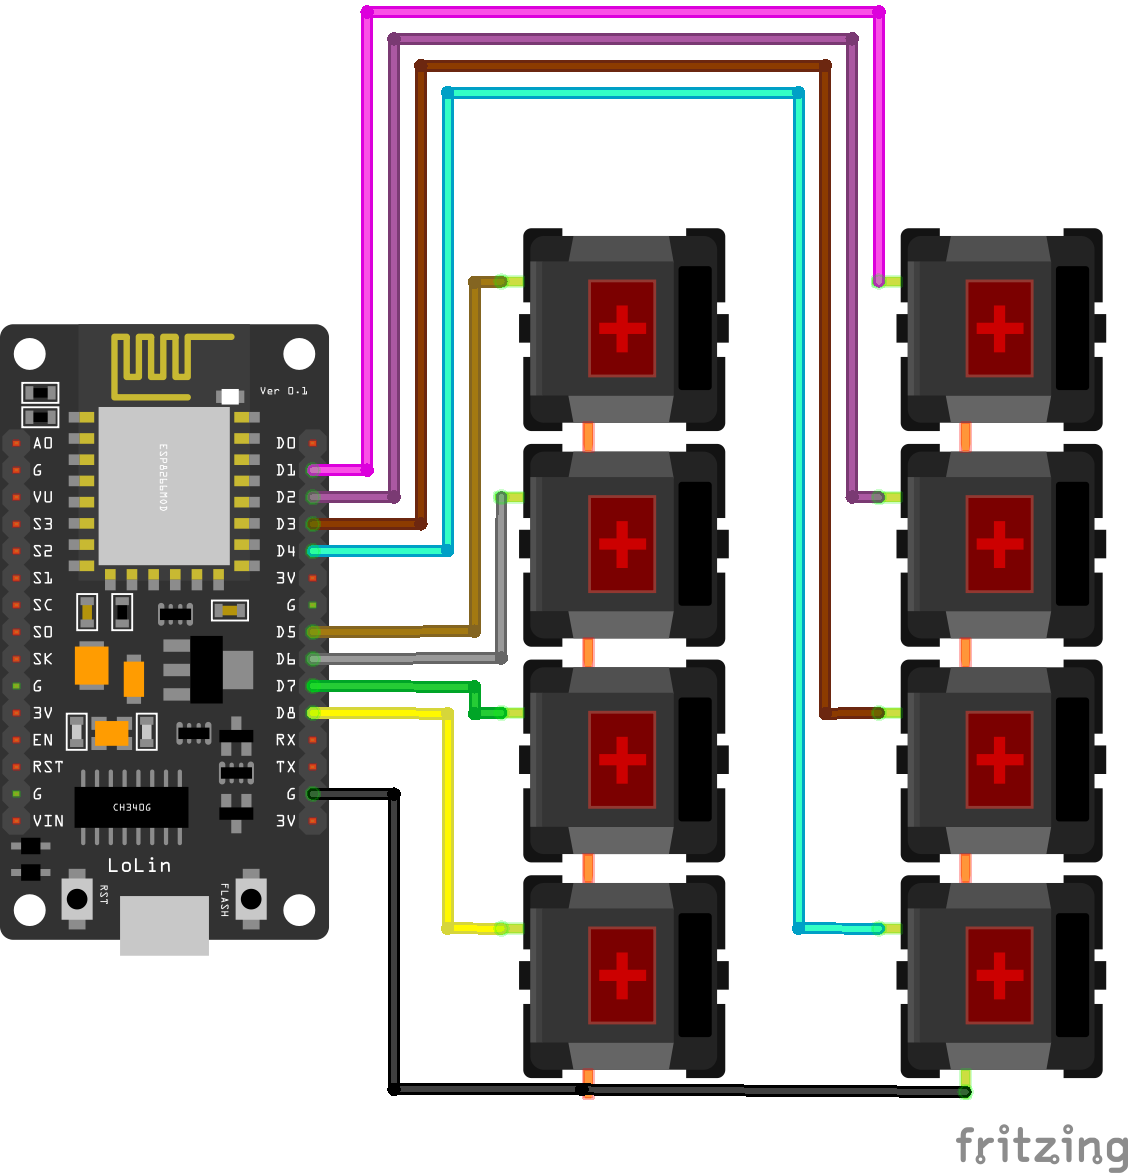
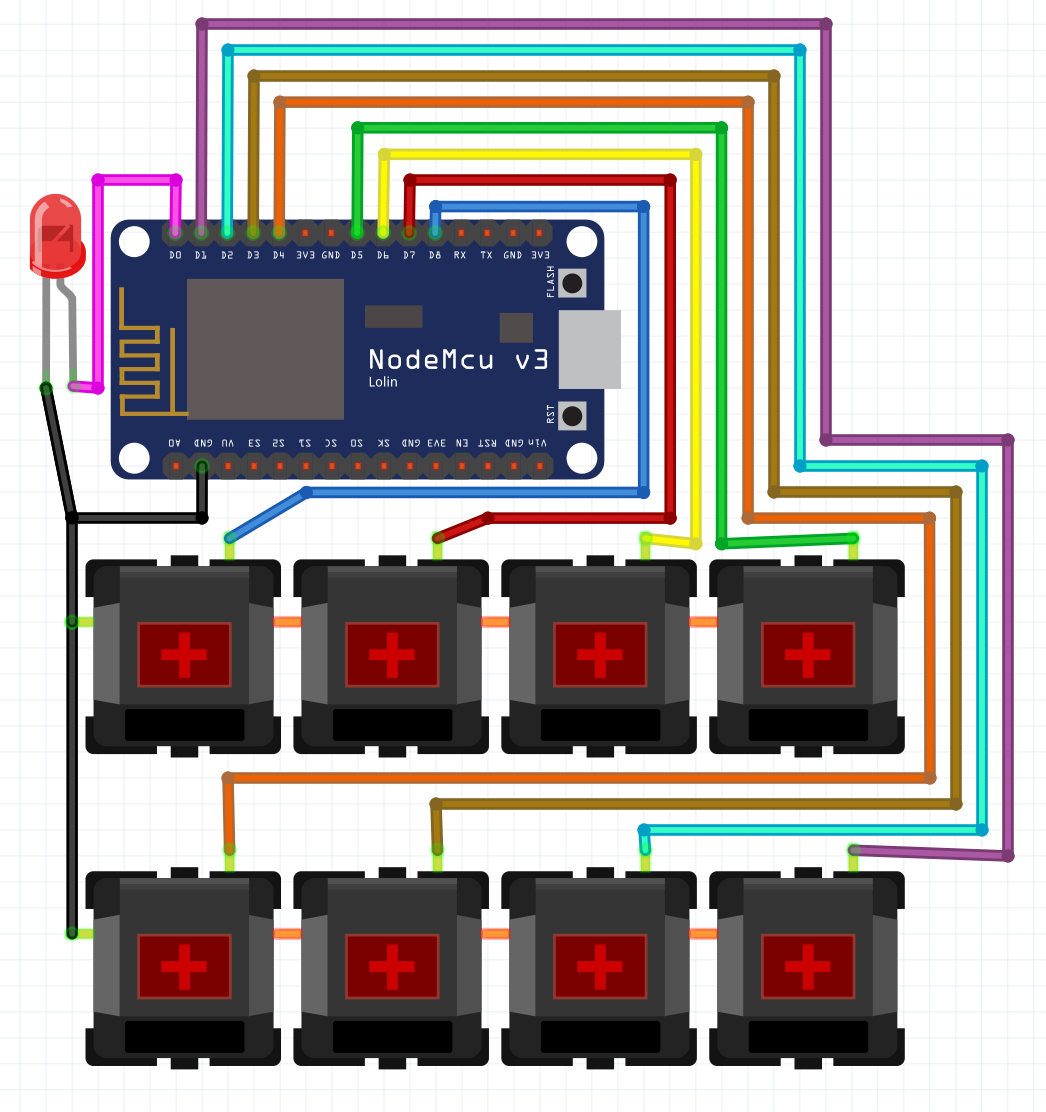
Add files

diff --git a/README.md b/README.md
@@ -2,9 +2,9 @@
  
 I set up [Home Assistant](https://www.home-assistant.io/) to integrate with [BabyBuddy](https://github.com/babybuddy/babybuddy) with the [Baby Buddy Home Assistant Integration](https://github.com/jcgoette/baby_buddy_homeassistant). I made a quick little keypad for adding data to baby buddy through a NodeMCU with [ESPHome](https://esphome.io/).
 
-Its a simple 8 switch keypad. In my use case its used for 3 different lighting scenes (bright, medium, nightlight) and four baby buddy data points (solid diaper, wet diaper, start sleep, end sleep).
+It's a simple 8 switch keypad. In my use case it's used for Light Button, Call Dad Button and six BabyBuddy data points (solid diaper, wet diaper, solid & wet diaper, start sleep, end sleep and start a timer.).
 
-[Shema](babybuddy_keypad_fritz.png)
+![Picture](Keypad.jpeg)
 
 
 #### Parts: ####
@@ -12,15 +12,17 @@ Its a simple 8 switch keypad. In my use case its used for 3 different lighting s
 - 8 [Key Caps](https://amzn.to/3KHNKyS)
 - a [nodeMCU / ESP8266 board](https://amzn.to/2JWhQF0)
 - a [HomeAssistant installation](https://www.home-assistant.io/) with an ESPHome integration
-- some kind of enclosure - I just made a little wooden box with a table top CNC but theres some printable options on thingiverse too
- 
+- Printable enclosure [Base](BabyBuddyKeypad_Base_nodeMCU.stl) & [Faceplate](BabyBuddyKeypad_Faceplate.stl)
+
 #### Assembly: ####
 
+![Shema](babybuddy_keypad_fritz.png)
+![Picture](Keypad-open.jpeg)
 
 
 #### Programming: ####
-- You'll need to be comfortable with [ESPHome](https://esphome.io/) and loading that code onto your Esp8266. The [included ESPHome code](https://github.com/sfgabe/OITProjects/blob/master/Baby_Buddy_Keypad/esphome_keypad.yaml) should work out of the box with just your wifi information. 
+- You'll need to be comfortable with [ESPHome](https://esphome.io/) and loading that code onto your Esp8266. The [ESPHome code](esphome_keypad.yaml) should work out of the box with just your Wi-Fi information. 
 - Add the [Baby Buddy HA Integration](https://github.com/jcgoette/baby_buddy_homeassistant) if you haven't already. 
-- Add the Home Assistant YAML code to your HA configs. You'll need to add to [automations.yaml](https://github.com/sfgabe/OITProjects/blob/master/Baby_Buddy_Keypad/automations.yaml)
+- Add the Automations to your HA configs. You'll need to copy them one by one from [automations.yaml](automations.yaml)
 - You'll need to figure out your baby's entity ID number/name from HA for the automations to log correctly, and decide what notes will be helpful, and change the YAML as needed. You can figure this out by making a test service call from the HA developer section and see what the YAML shows you for entity_id
 - Restart Home Assistant and you should be able to log data right away. 
